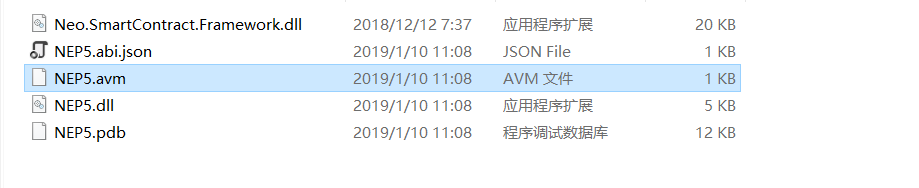
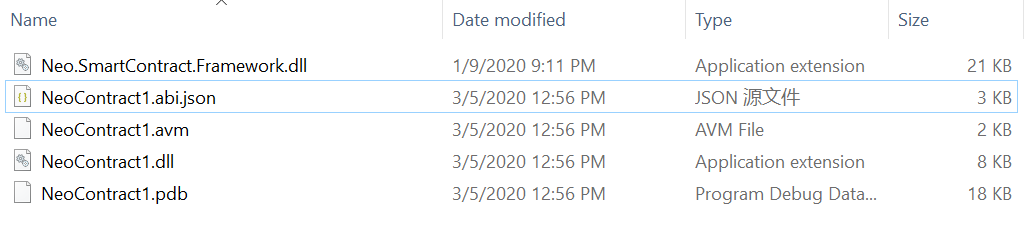
Update smartcontract gettingstarted (#1007)
* Update smartcontract gettingstarted

* Update develop.md

* Update develop.md

* Update develop.md

diff --git a/docs/en-us/sc/gettingstarted/develop.md b/docs/en-us/sc/gettingstarted/develop.md
@@ -10,41 +10,41 @@ We will complete the following tasks in this section:
 
 ## Installing development environment
 
-### Install Visual Studio 2017
+### Install Visual Studio 2019
 
-Download and install [Visual Studio 2017](https://www.visualstudio.com/products/visual-studio-community-vs) . Select `.NET Core cross-platform development` option during installation.
+Download and install [Visual Studio 2019](https://www.visualstudio.com/products/visual-studio-community-vs) . Select `.NET Core cross-platform development` option during installation.
 
 ![3_install_core_cross_platform_development_toolset](assets/3_install_core_cross_platform_development_toolset.jpg)
 
 ### Install NeoContractPlugin 
 
-Open Visual Studio 2017 and click `tool` -> `extensions and Updates`，click `online`on the left column, search Neo and install NeoContractPlugin (the process must be completed online).
+Open Visual Studio 2019 and click `	EXTENSIONS` -> `Manage Extensions`，click `Online`on the left column, search "Neo" and install NeoContractPlugin (the process must be completed online).
 
 ![3_download_and_install_smart_contract_plugin](assets/3_download_and_install_smart_contract_plugin.jpg)
 
 ### Configure neo-compiler 
 
-1. Download [neo-compiler](https://github.com/neo-project/neo-compiler) project to your localhost.
+1. Pull [neo-devpack-dotnet](https://github.com/neo-project/neo-devpack-dotnet) project from GitHub to your localhost.
 
-2. Click `file` -> `open` -> `project/solutions` in Visual Studio 2017 and select neo-compiler.sln in the project file.
+2. Click `FILE` -> `Open` -> `Project/Solutions` in Visual Studio and select neo-compiler.sln in the project file.
 
-3. Right click neon project in the list and click `release`.
+3. Switch the branch to `master-2.x` (Master branch is the compiler of Neo3)
+
+4. Right click the neon project in the list and click `Publish...`.
 
    ![3_publish_neo_compiler_msil_project](assets/3_publish_neo_compiler_msil_project.jpg)
 
-4. After the release path is configured, click `release`. 
+5. After the publish path is configured, click `Publish`. 
 
-   Upon successful release, a neon.exe file is generated in bin\Release\PublishOutput。
+   Upon successful release, a neon.exe file is generated in ...\Neo.Compiler.MSIL\bin\Release\netcoreapp3.1\publish\ 。
 
-> [!Note]
->
->  In case of error warning in the process of release: unable to copy file "obj\Release\netcoreapp1.0\win10-x64\neon.dll" as the file cannot be located, which may be be traced to a bug in VS 2017 (e.g. v15.4, 15.5), what you need to do is manually copy `\obj\Release\netcoreapp1.0\neon.dll` to `\obj\Release\netcoreapp1.0\win10-x64\` folder and release it again.
+   ![3_publish_and_profile_settings](assets/3_publish_and_profile_settings.png)
 
 ### Change environment parameter settings
 
 Next we need to add path using the following method to allow neon.exe to be accessible from any point: 
 
-1. For Windows10, press Windows+S, input environment parameter and select `edit the account's environment parameters`. 
+1. For Windows 10, press Windows+S, input environment parameter and select `Edit the system enviroment variables`. 
 
    ![3_2017-06-07_12-07-03](assets/3_2017-06-07_12-07-03.png)
 
@@ -66,7 +66,7 @@ After the path is added, run CMD or PowerShell for testing purpose (if CMD start
 
 ## Creating a Neo contract project
 
-Upon completion of the previous steps, you may start to create Neo smart contract project in Visual Studio 2017 (no specific requirement for .NET Framework version):
+Upon completion of the previous steps, you may start to create Neo smart contract project in Visual Studio (no specific requirement for .NET Framework version):
 
 1. Click `file` -> `create` -> `project`.
 2. Select `NeoContract` in the list and change settings where necessary, then click `confirm`.
@@ -85,7 +85,7 @@ Many developers are curious about how to release their own contract assets on Ne
 
 1. Download the NEP-5 template from [Github](https://github.com/neo-project/examples).
 
-2. Create a Neo smart contract project in Visual Studio 2017 and name it NEP5.
+2. Create a Neo smart contract project in Visual Studio and name it NEP5.
 
 3. Open NEP5.cs
 
@@ -95,7 +95,7 @@ Many developers are curious about how to release their own contract assets on Ne
    >
    > If there are red underlines under the code warning that the system is unable to find Neo name space and there is "!" in project references, you may take the following steps: 
    >
-   > Right click the solution file in VS, click `manage NuGet package` and update the Neo.SmartContract.Framework to the latest official version in a new page.  If the red underlines still exist when program update is completed, you may try double clicking the "!". If the problem remains unsolved, you may resort to the solutions below: 
+   > Right click the solution file in VS, click `Manage NuGet Packages...` and update the Neo.SmartContract.Framework to the latest official version in a new page.  If the red underlines still exist when program update is completed, you may try double clicking the "!". If the problem remains unsolved, you may resort to the solutions below: 
    >
    > 1. Download nuget.exe [here](https://www.nuget.org/downloads)  and copy it to the root directory of NeoContract project.
    > 2. Open Power Shell or command prompt (CMD).
@@ -244,27 +244,15 @@ When the editing is done, the coding part of the smart contract is done.
 
 ## Compiling contract file
 
-Click `generate`->`generate solutions` (hotkeys: Ctrl + Shift + B) in the menu to start compilation.
+Click `BUILD`->`Build Solutions` (hotkeys: Ctrl + Shift + B) in the menu to start compilation.
 
 ![](assets/compile.png)
 
-When the compilation is done, Neo smart contract file named`NEP5.avm` is generated in the `bin/Debug` directory of the project.
+When the compilation is done, Neo smart contract file named `NeoContract1.avm` is generated in the `bin/Debug` directory of the project.
 
 ![](assets/contractfile.png)
 
-``NEP5.abi.json` is a descriptive file of the smart contract, which contains desciptions of the ScriptHash, entry, parameters and return values of the contract. More information about the smart contract ABI can be found in [NeoContract ABI](https://github.com/neo-project/proposals/blob/master/nep-3.mediawiki).
-
-> [!Note] 
->
-> Given that neon compiles .dll with nep-8 by default, which conflicts with older versions of NeoVM, you need to execute .dll using the neon compatible mode; otherwise the contract cannot be invoked properly.
->
-> Open Power Shell or command prompt (CMD), enter bin/Debug directory and input the following command (replace nep5.dll with your own project file): 
->
-> ```
-> neon nep5.dll --compatible
-> ```
->
->  The new `nep5.avm`  file and `nep5.abi.json`  file will overwrite the old files.
+`NeoContract1.abi.json` is a descriptive file of the smart contract, which contains desciptions of the ScriptHash, entry, parameters and return values of the contract. More information about the smart contract ABI can be found in [NeoContract ABI](https://github.com/neo-project/proposals/blob/master/nep-3.mediawiki).
 
 ## What's next?
 

diff --git a/docs/zh-cn/sc/gettingstarted/develop.md b/docs/zh-cn/sc/gettingstarted/develop.md
@@ -10,43 +10,41 @@
 
 ## 安装开发环境
 
-### 安装 Visual Studio 2017
+### 安装 Visual Studio 2019
 
-下载 [Visual Studio 2017](https://www.visualstudio.com/products/visual-studio-community-vs) 并安装，注意安装时需要勾选 `.NET Core 跨平台开发` 。
+下载 [Visual Studio 2019](https://www.visualstudio.com/products/visual-studio-community-vs) 并安装，注意安装时需要勾选 `.NET Core 跨平台开发` 。
 
 ![3_install_core_cross_platform_development_toolset](assets/3_install_core_cross_platform_development_toolset.jpg)
 
 ### 安装 NeoContractPlugin 插件
 
-打开 Visual Studio 2017，点击 `工具` -> `扩展和更新` ，在左侧点击 `联机` ，搜索 Neo，安装 NeoContractPlugin 插件（该过程需要联网）。
+打开 Visual Studio 2019，点击 `扩展` -> `管理扩展` ，在左侧点击 `联机` ，搜索 Neo，安装 NeoContractPlugin 插件（该过程需要联网）。
 
 ![3_download_and_install_smart_contract_plugin](assets/3_download_and_install_smart_contract_plugin.jpg)
 
 ### 配置 neo-compiler
 
-1. 在 Github 上下载 [neo-compiler](https://github.com/neo-project/neo-compiler) 项目到本地。
+1. 在 Github 上拉取 [neo-devpack-dotnet](https://github.com/neo-project/neo-devpack-dotnet) 项目到本地。
 
-2. 在 Visual Studio 2017 上点击 `文件` -> `打开` -> `项目/解决方案`，选择项目文件中的 neo-compiler.sln
+2. 在 Visual Studio 上点击 `文件` -> `打开` -> `项目/解决方案`，选择项目文件中的 neo-compiler.sln
 
-3. 右键单击列表中的 neon 项目，点击 `发布`。
+3. 将 Git 分支切换为 `master-2.x`（master 分支为 Neo3 的编译器）。
+
+4. 右键单击列表中的 neon 项目，点击 `发布`。
 
    ![3_publish_neo_compiler_msil_project](assets/3_publish_neo_compiler_msil_project.jpg)
 
-4. 配置好发布路径后，点击 `发布`。
+5. 配置好发布路径后，点击 `发布`。
 
-   发布成功后，会在 bin\Release\PublishOutput 目录下生成 neon.exe 文件。
+   发布成功后，会在 ...\Neo.Compiler.MSIL\bin\Release\netcoreapp3.1\publish\ 目录下生成 neon.exe 文件。
 
    ![3_publish_and_profile_settings](assets/3_publish_and_profile_settings.png)
-
-> [!Note]
->
-> 发布过程中如果遇到如下错误提示：*无法复制文件”obj\Release\netcoreapp1.0\win10-x64\neon.dll“，原因是找不到该文件？*这可能是 VS 2017 （如 15.4，15.5）的一个 Bug，此时需要手动将 `\obj\Release\netcoreapp1.0\neon.dll` 文件复制到 `\obj\Release\netcoreapp1.0\win10-x64\` 文件夹中，然后重新发布即可。
 
 ### 设置环境变量
 
 接下来需要添加 path，让任何位置都能访问 neon.exe。方法如下：
 
-1. 在 Windows10 上 按 Windows + S 键，输入环境变量，选择 `编辑账户的环境变量` 
+1. 在 Windows10 上 按 Windows + S 键，输入环境变量，选择 `编辑系统环境变量` 
 
    ![3_2017-06-07_12-07-03](assets/3_2017-06-07_12-07-03.png)
 
@@ -68,7 +66,7 @@
 
 ## 创建 Neo 合约项目
 
-完成以上步骤后，即可在 Visual Studio 2017 中创建 Neo 智能合约项目（.NET Framework 版本任意）：
+完成以上步骤后，即可在 Visual Studio 中创建 Neo 智能合约项目（.NET Framework 版本任意）：
 
 1. 点击 `文件` -> `新建` -> `项目`。
 2. 在列表中选择 `NeoContract` 并进行必要设置后，点击 `确定`。
@@ -87,7 +85,7 @@
 
 1. 从 [Github](https://github.com/neo-project/examples)上下载 NEP5 示例。
 
-2. 在 Visual Studio 2017 中创建一个 Neo 智能合约项目，这里命名为 NEP5。
+2. 在 Visual Studio 中创建一个 Neo 智能合约项目，这里命名为 NEP5。
 
 3. 打开示例文件 NEP5.cs
 
@@ -250,21 +248,11 @@ namespace NEP5
 
 ![](assets/compile.png)
 
-编译成功后你会在该项目的 `bin/Debug` 目录下看到生成的 `NEP5.avm` 文件，该文件即是生成的 Neo 智能合约文件。
+编译成功后你会在该项目的 `bin/Debug` 目录下看到生成的 `NeoContract1.avm` 文件，该文件即是生成的 Neo 智能合约文件。
 
 ![](assets/contractfile.png)
 
-`NEP5.abi.json` 是智能合约的描述文档，文档中对合约的 ScriptHash、入口、方法、参数、返回值等进行了描述。关于更多智能合约 ABI 的信息，可以参考 [NeoContract ABI](https://github.com/neo-project/proposals/blob/master/nep-3.mediawiki)。
-
-> [!Note]
->
-> 由于 neon 默认使用 nep-8 的模式编译 dll，与旧版本 NeoVM 不兼容，所以我们需要用编译器的 compatible 模式编译，否则调用合约时会出错。
->
-> 打开Power Shell 或命令提示符（CMD），进入 bin/Debug 目录，输入如下命令（将nep5.dll替换成你自己的项目文件）：
->
-> `neon nep5.dll --compatible`
->
-> 生成的 `nep5.avm` 文件和`nep5.abi.json` 文件将会覆盖之前的对应文件。
+`NeoContract1.abi.json` 是智能合约的描述文档，文档中对合约的 ScriptHash、入口、方法、参数、返回值等进行了描述。关于更多智能合约 ABI 的信息，可以参考 [NeoContract ABI](https://github.com/neo-project/proposals/blob/master/nep-3.mediawiki)。
 
 ## 继续阅读
 
